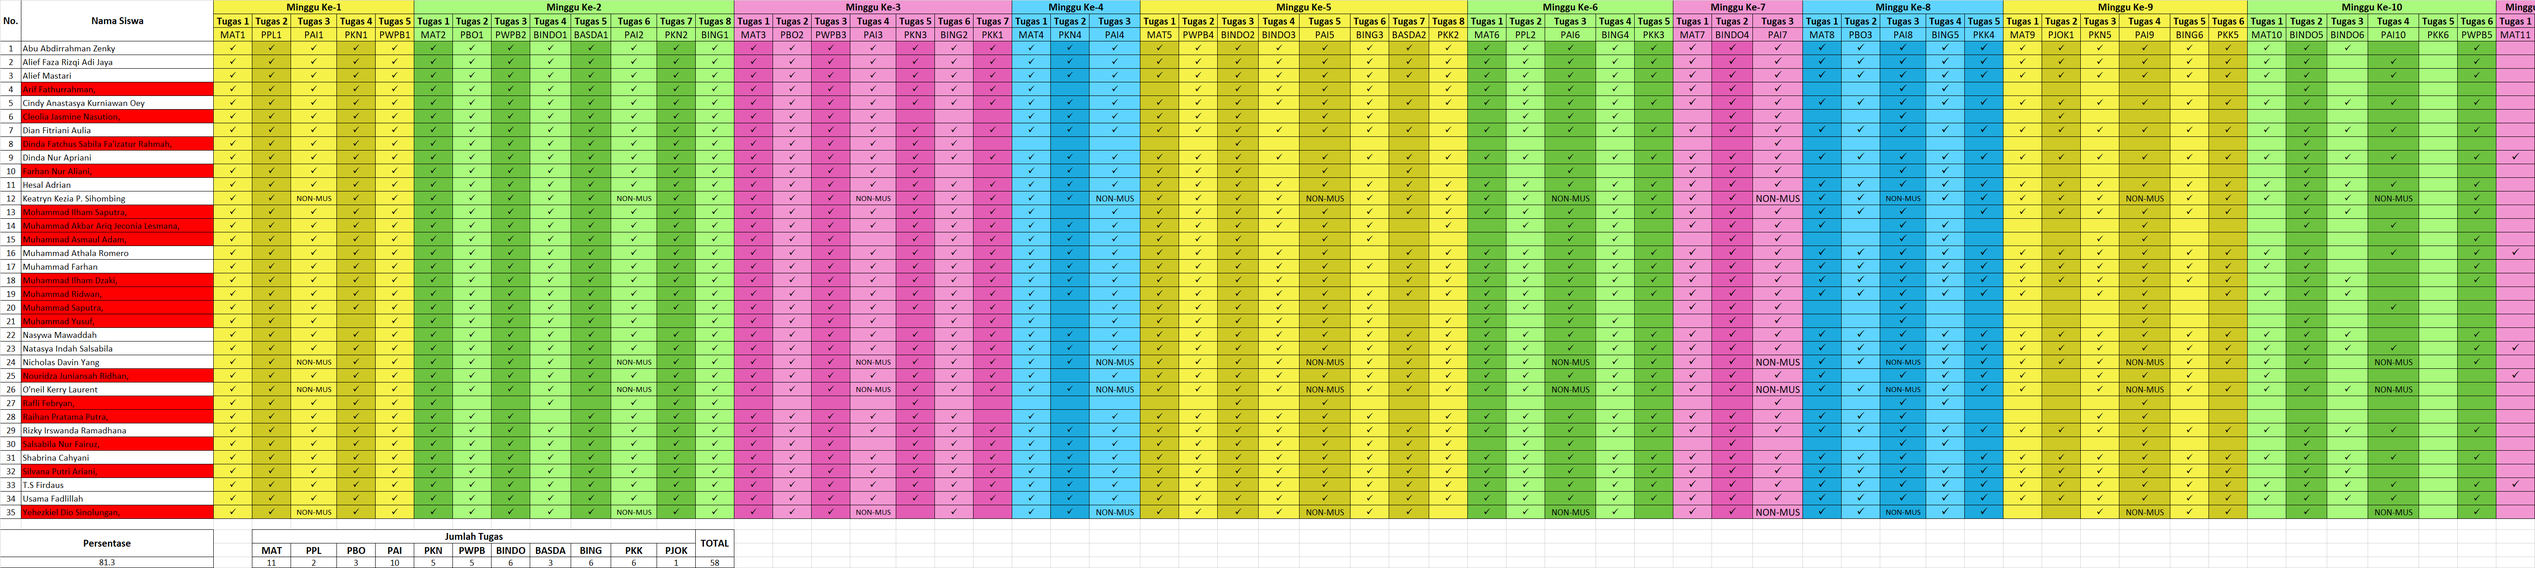
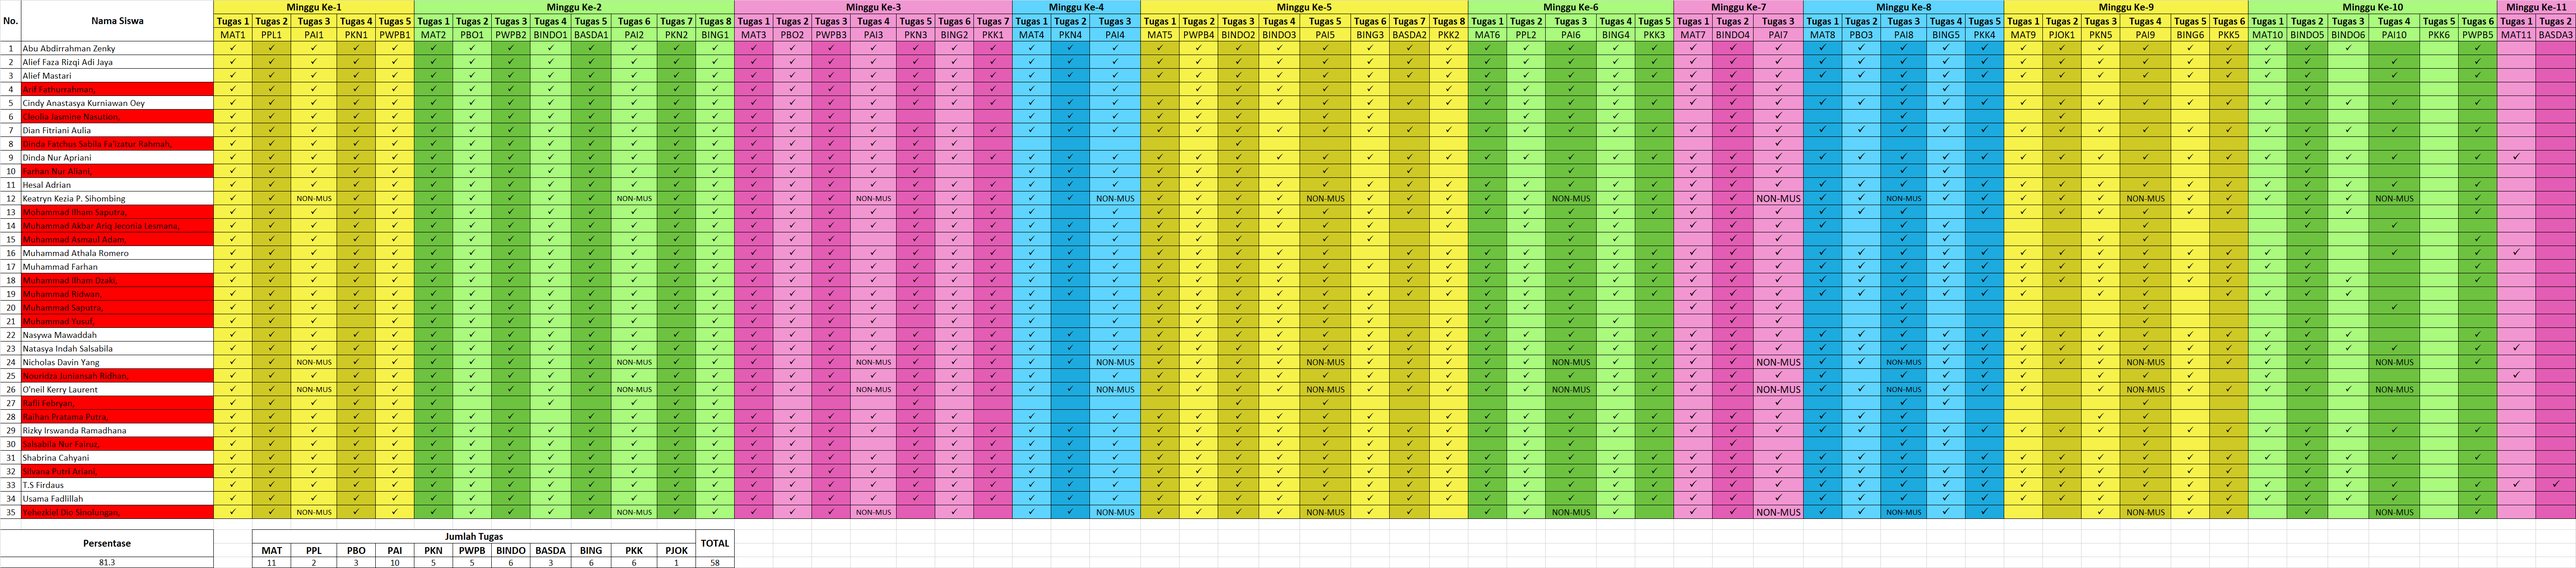
File Update

diff --git a/Excel/Program/files.py b/Excel/Program/files.py
@@ -46,15 +46,15 @@ wb_bulanan_image_name = [
 
 global weekly_task_start_column_range, weekly_task_end_column_range
 weekly_task_start_column_range = [3, 8,  16, 23, 26, 34, 39, 42, 47, 53, 59]
-weekly_task_end_column_range   = [8, 16, 23, 26, 34, 39, 42, 47, 53, 59, 60]
+weekly_task_end_column_range   = [8, 16, 23, 26, 34, 39, 42, 47, 53, 59, 61]
 
 global monthly_task_start_column_range,monthly_task_end_column_range
 monthly_task_start_column_range = [3,  34, 59]
-monthly_task_end_column_range   = [34, 59, 60]
+monthly_task_end_column_range   = [34, 59, 61]
 
 global wb_bulanan_start_container, wb_bulanan_end_container # How much week it contains
 wb_bulanan_start_container = [1, 6,  11]
 wb_bulanan_end_container   = [6, 11, 12]
 
 global combined_task_range
-combined_task_range = "A1:BG42"
+combined_task_range = "A1:BH42"
